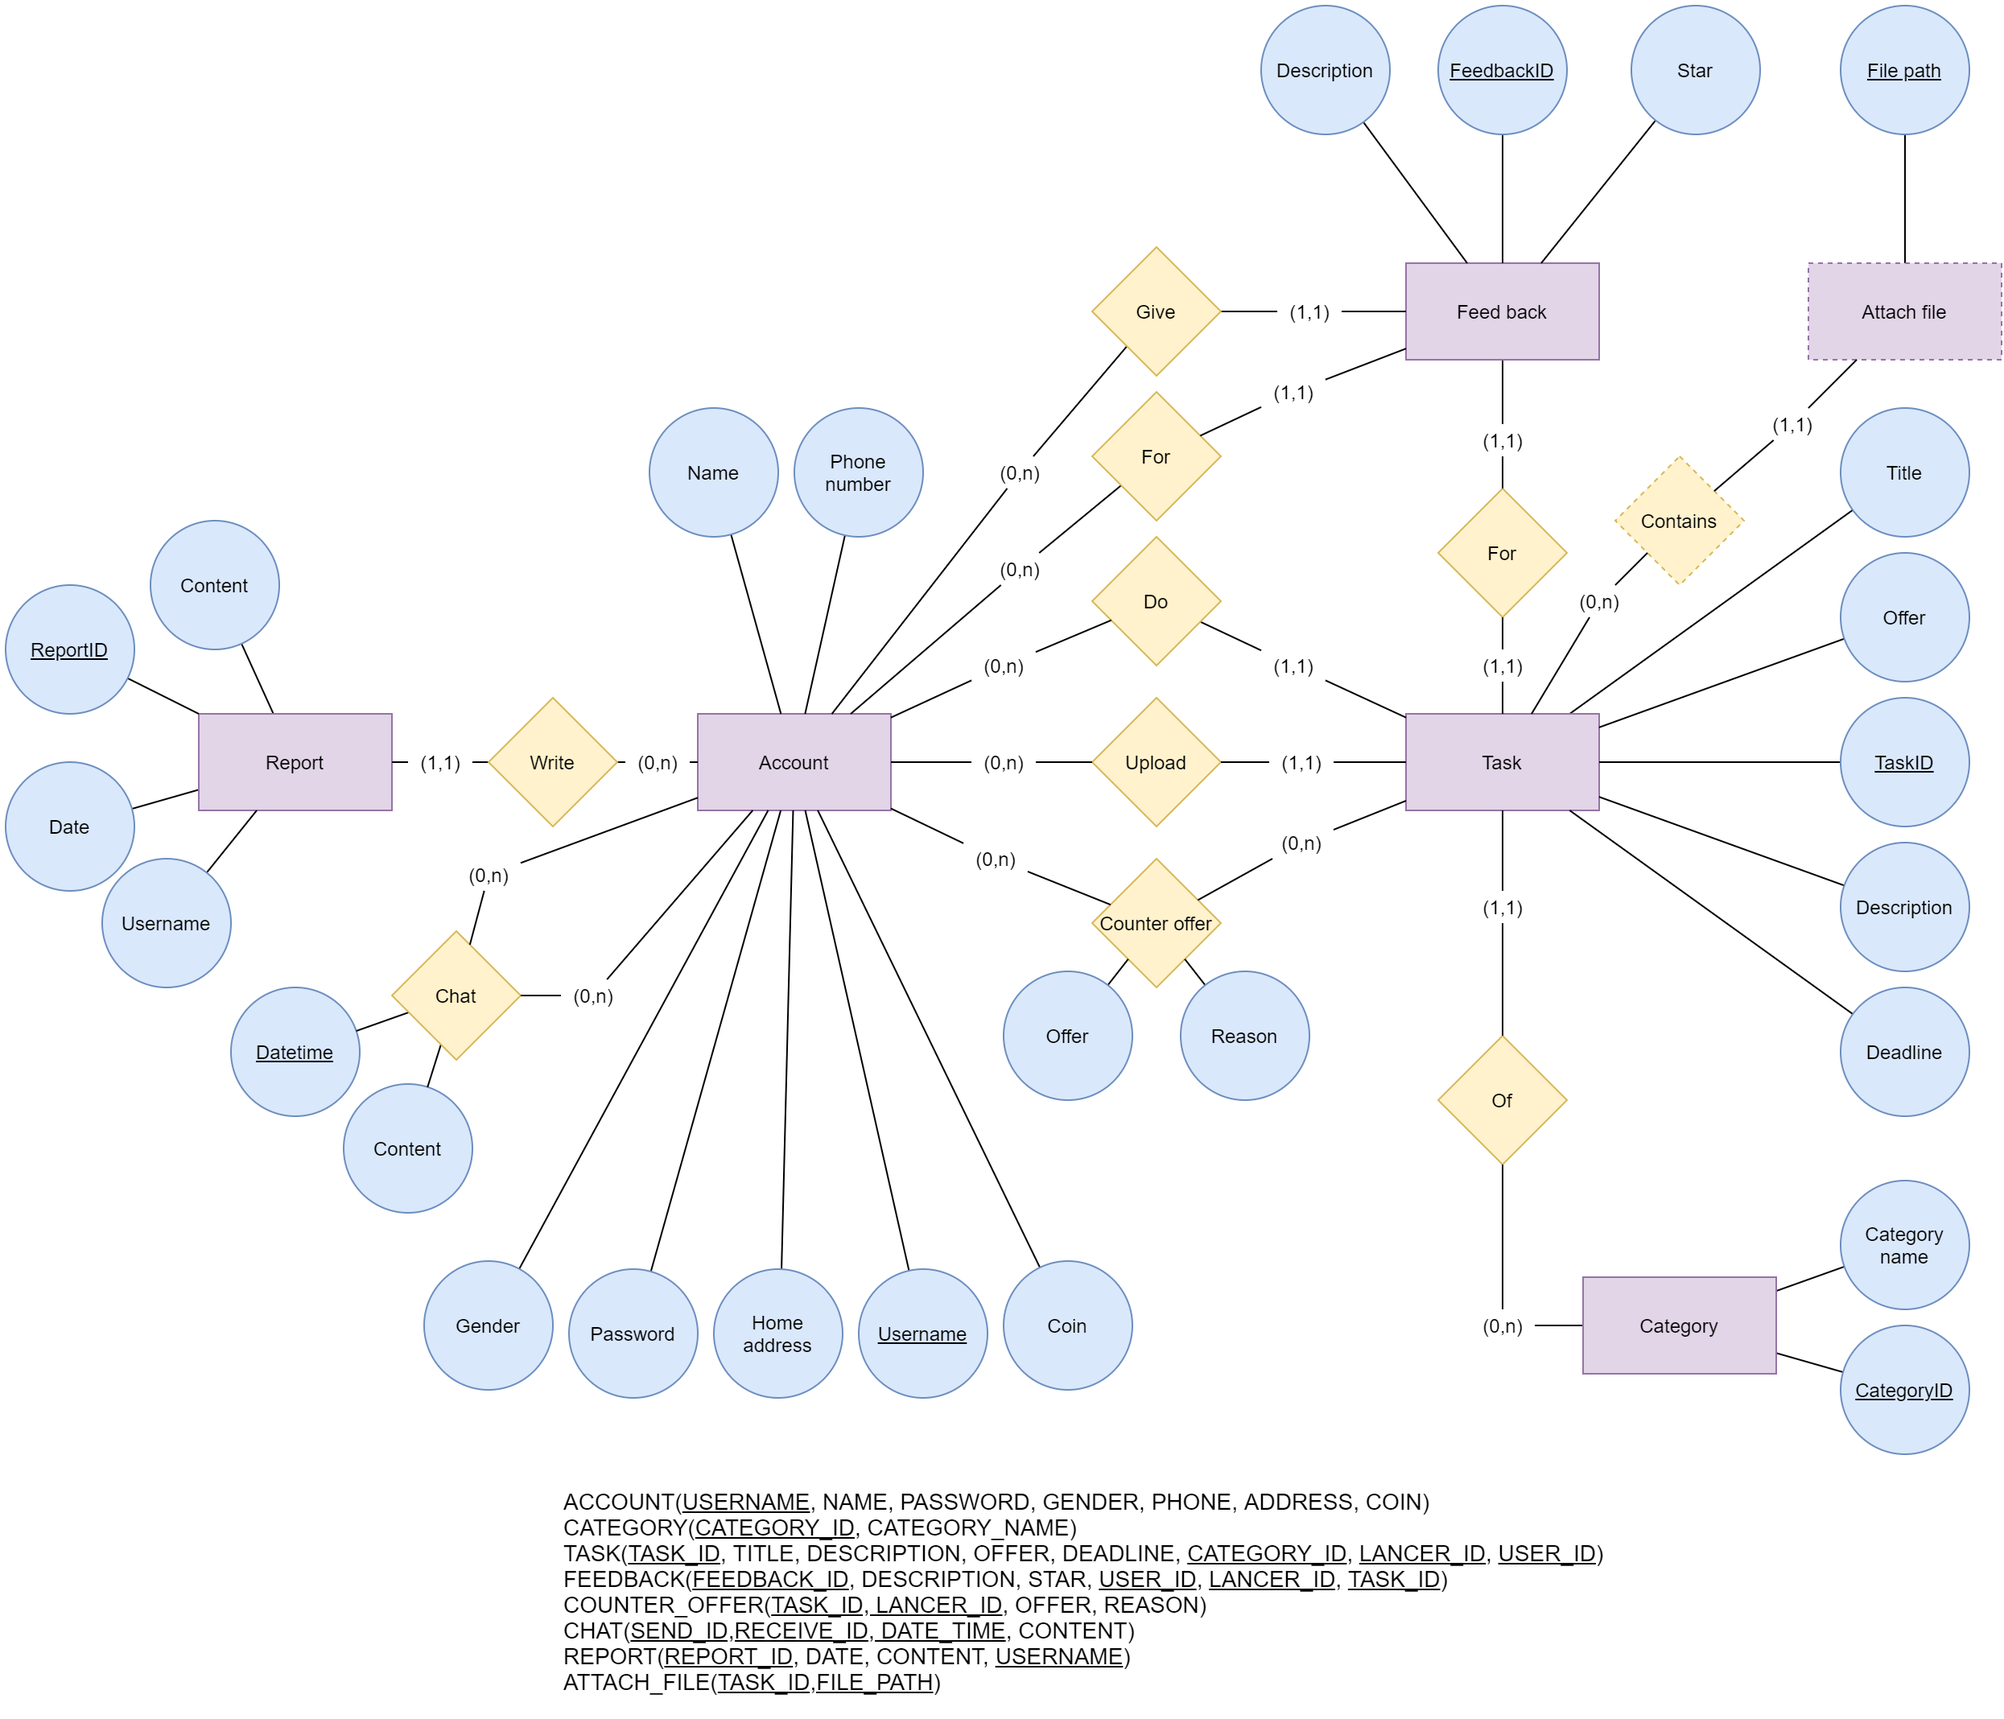
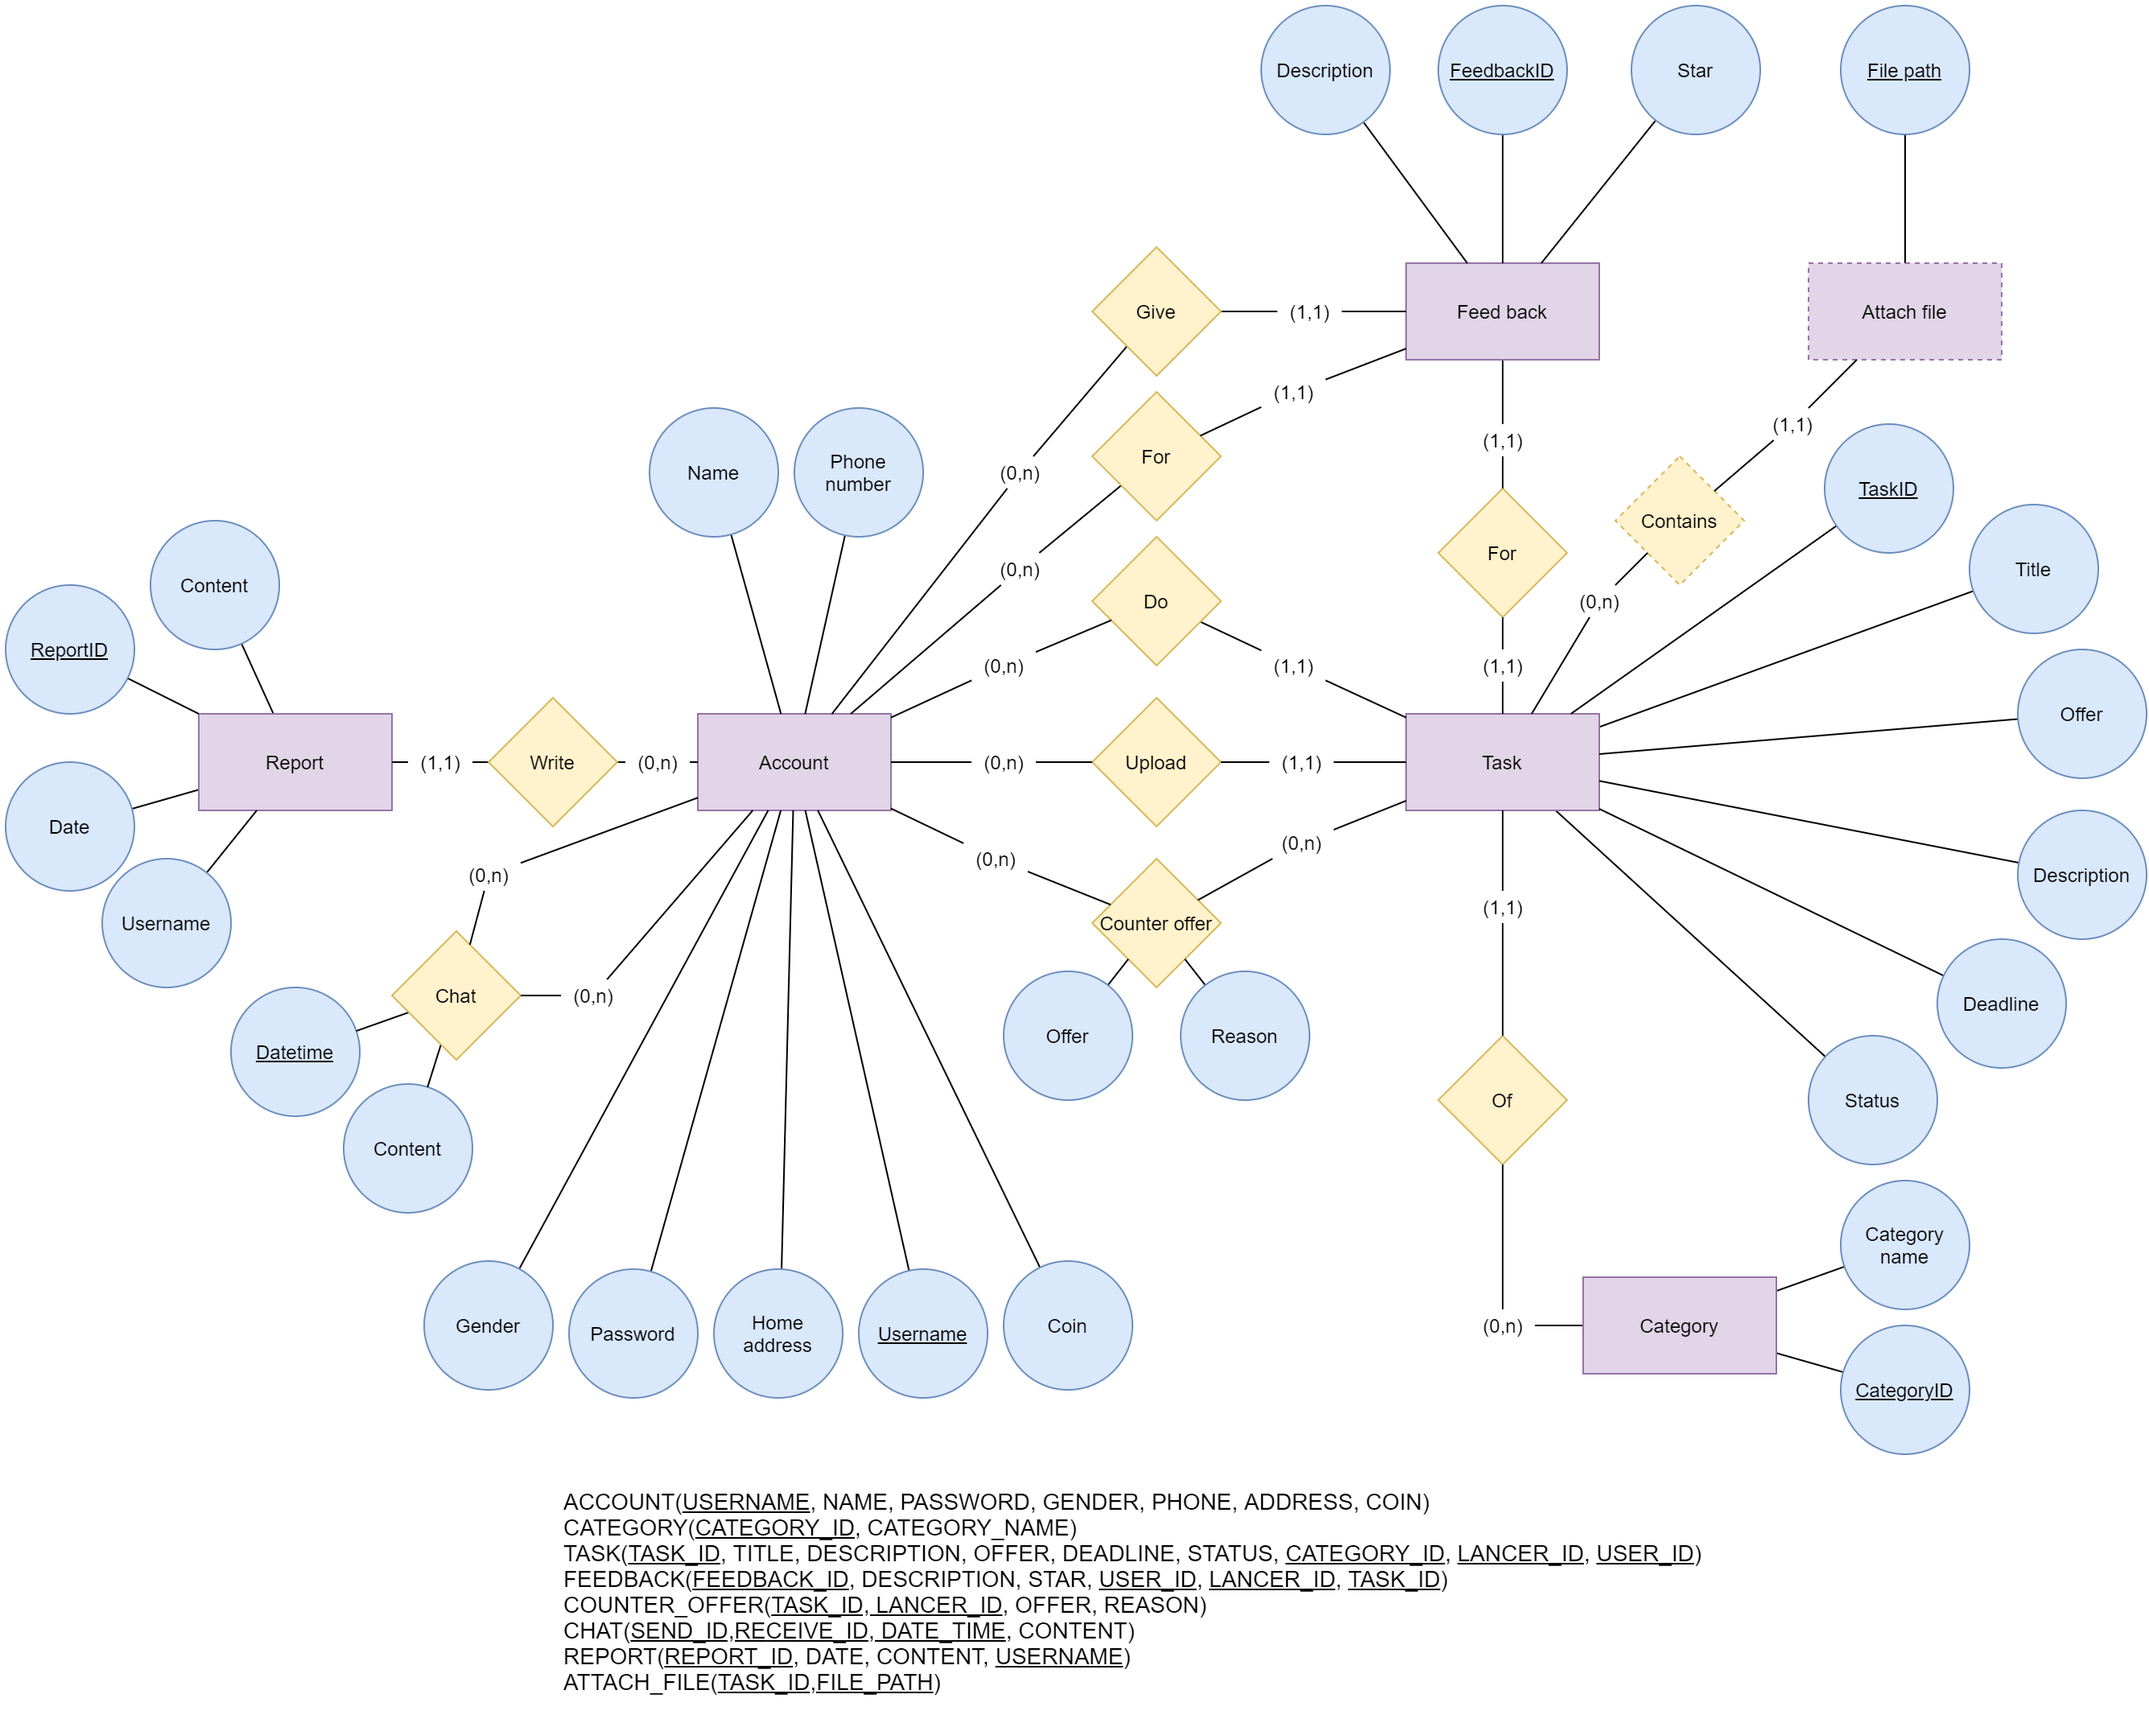
Add status field of task to db, edit ERD, change config and task relevant

diff --git a/src/Server/models/task.js b/src/Server/models/task.js
@@ -1,9 +1,12 @@
-const sql = require('./db')
+const   sql = require('./db')
+        config = require("../config/config")
 
 const Task = function(){};
 
 Task.getByCategory = function(data,resultCallback) {
-    sql.query("SELECT * FROM TASK WHERE category_id=?",data.category_id,function(err,res){
+    sql.query("SELECT * FROM TASK WHERE category_id=? AND status=?",
+    [data.category_id,config.constant.STATUS.PENDING],
+    (err,res)=>{
         if (err) {
             console.log("Fail to get: ",err);
             resultCallback(err,null);
@@ -15,6 +18,7 @@ Task.getByCategory = function(data,resultCallback) {
 }
 
 Task.postTask = function(data,resultCallback) {
+    data["status"]=config.constant.STATUS.PENDING
     sql.query("INSERT INTO TASK SET ?",data,(err,res)=>{
         if (err) {
             console.log("Fail to create task: ",err)

diff --git a/src/Server/config/config.js b/src/Server/config/config.js
@@ -14,7 +14,14 @@ exports.database = {
 }
 
 exports.constant = {
-    MALE: 0,
-    FEMALE: 1,
+    GENDER: {
+        MALE: 0,
+        FEMALE: 1,
+    },
+    STATUS: {
+        PENDING: 0,
+        ACCEPTED: 1,
+        DONE: 2
+    },
     DEFAULT_COIN: 0
 }

diff --git a/src/Server/models/account.js b/src/Server/models/account.js
@@ -1,7 +1,7 @@
 const sql = require('./db')
 const config = require('../config/config')
 
-const Account = function(account){};
+const Account = function(){};
 
 Account.signup = function(data,resultCallback) {
     data.coin = config.constant.DEFAULT_COIN

diff --git a/src/Server/models/category.js b/src/Server/models/category.js
@@ -1,4 +1,4 @@
-const sql = require('./db')
+const   sql = require('./db')
 
 const Category = function(){};
 
